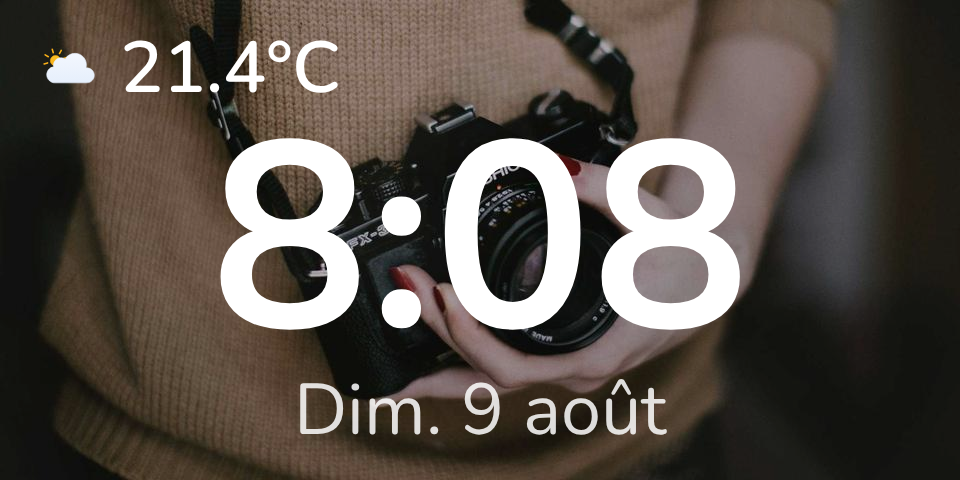
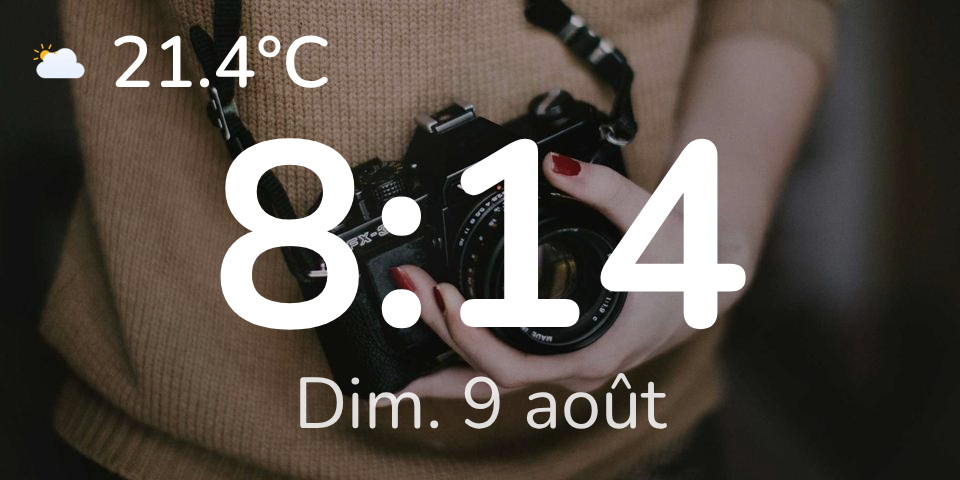
1.0.8: ajuste finement retrait météo et hauteur de la date
Météo un peu plus dans le coin (top/left réduits d'~1/3 par rapport à
la 1.0.7). Date légèrement remontée (~6px) par rapport au calage
"encre parfaitement centrée" de la 1.0.7 — préférence utilisateur une
fois la symétrie de base en place.

Changed region(s): [[0.4375, 0.2812, 0.7812, 0.6875], [0.0312, 0.0625, 0.375, 0.2188], [0.3125, 0.7812, 0.7188, 0.9062]]

diff --git a/src/echo-home-card.js b/src/echo-home-card.js
@@ -380,7 +380,10 @@ class EchoHomeCard extends LitElement {
          --_clock-size/--_date-size (donc correct en mode round aussi),
          mais avec des coefficients propres à Nunito — à réajuster si la
          police change (voir --echo-home-font-family). */
-      top: calc(75% + var(--_clock-size) * 0.175 - var(--_date-size) * 0.4515);
+      /* +0.08*D par rapport au calage "encre parfaitement centrée"
+         ci-dessus : léger rapprochement de l'horloge, demandé par
+         l'utilisateur une fois la symétrie de base en place. */
+      top: calc(75% + var(--_clock-size) * 0.175 - var(--_date-size) * 0.5315);
       left: 50%;
       transform: translateX(-50%);
       line-height: 1;
@@ -392,8 +395,8 @@ class EchoHomeCard extends LitElement {
 
     .weather {
       position: absolute;
-      top: clamp(12px, 4vh, 28px);
-      left: clamp(12px, 5%, 32px);
+      top: clamp(8px, 3vh, 20px);
+      left: clamp(8px, 3.5%, 22px);
       z-index: 1;
       display: flex;
       align-items: center;
@@ -405,7 +408,7 @@ class EchoHomeCard extends LitElement {
        en haut à la place. */
     .card.round .weather {
       left: 50%;
-      top: clamp(28px, 15%, 56px);
+      top: clamp(20px, 11%, 40px);
       transform: translateX(-50%);
     }
 

diff --git a/dist/echo-home-card.js b/dist/echo-home-card.js
@@ -928,7 +928,10 @@ q(V, "properties", {
          --_clock-size/--_date-size (donc correct en mode round aussi),
          mais avec des coefficients propres à Nunito — à réajuster si la
          police change (voir --echo-home-font-family). */
-      top: calc(75% + var(--_clock-size) * 0.175 - var(--_date-size) * 0.4515);
+      /* +0.08*D par rapport au calage "encre parfaitement centrée"
+         ci-dessus : léger rapprochement de l'horloge, demandé par
+         l'utilisateur une fois la symétrie de base en place. */
+      top: calc(75% + var(--_clock-size) * 0.175 - var(--_date-size) * 0.5315);
       left: 50%;
       transform: translateX(-50%);
       line-height: 1;
@@ -940,8 +943,8 @@ q(V, "properties", {
 
     .weather {
       position: absolute;
-      top: clamp(12px, 4vh, 28px);
-      left: clamp(12px, 5%, 32px);
+      top: clamp(8px, 3vh, 20px);
+      left: clamp(8px, 3.5%, 22px);
       z-index: 1;
       display: flex;
       align-items: center;
@@ -953,7 +956,7 @@ q(V, "properties", {
        en haut à la place. */
     .card.round .weather {
       left: 50%;
-      top: clamp(28px, 15%, 56px);
+      top: clamp(20px, 11%, 40px);
       transform: translateX(-50%);
     }
 

diff --git a/CHANGELOG.md b/CHANGELOG.md
@@ -1,5 +1,11 @@
 # Changelog
 
+## 1.0.8
+
+- Ajustements fins demandés après la 1.0.7 : météo un peu plus dans le
+  coin (top/left réduits d'environ un tiers), date légèrement remontée
+  (~6px, coefficient du calcul d'encre ajusté de 0.4515 à 0.5315×D).
+
 ## 1.0.7
 
 - **Bloc météo** : retour au retrait d'origine (1.0.4). Les 1.0.5/1.0.6
